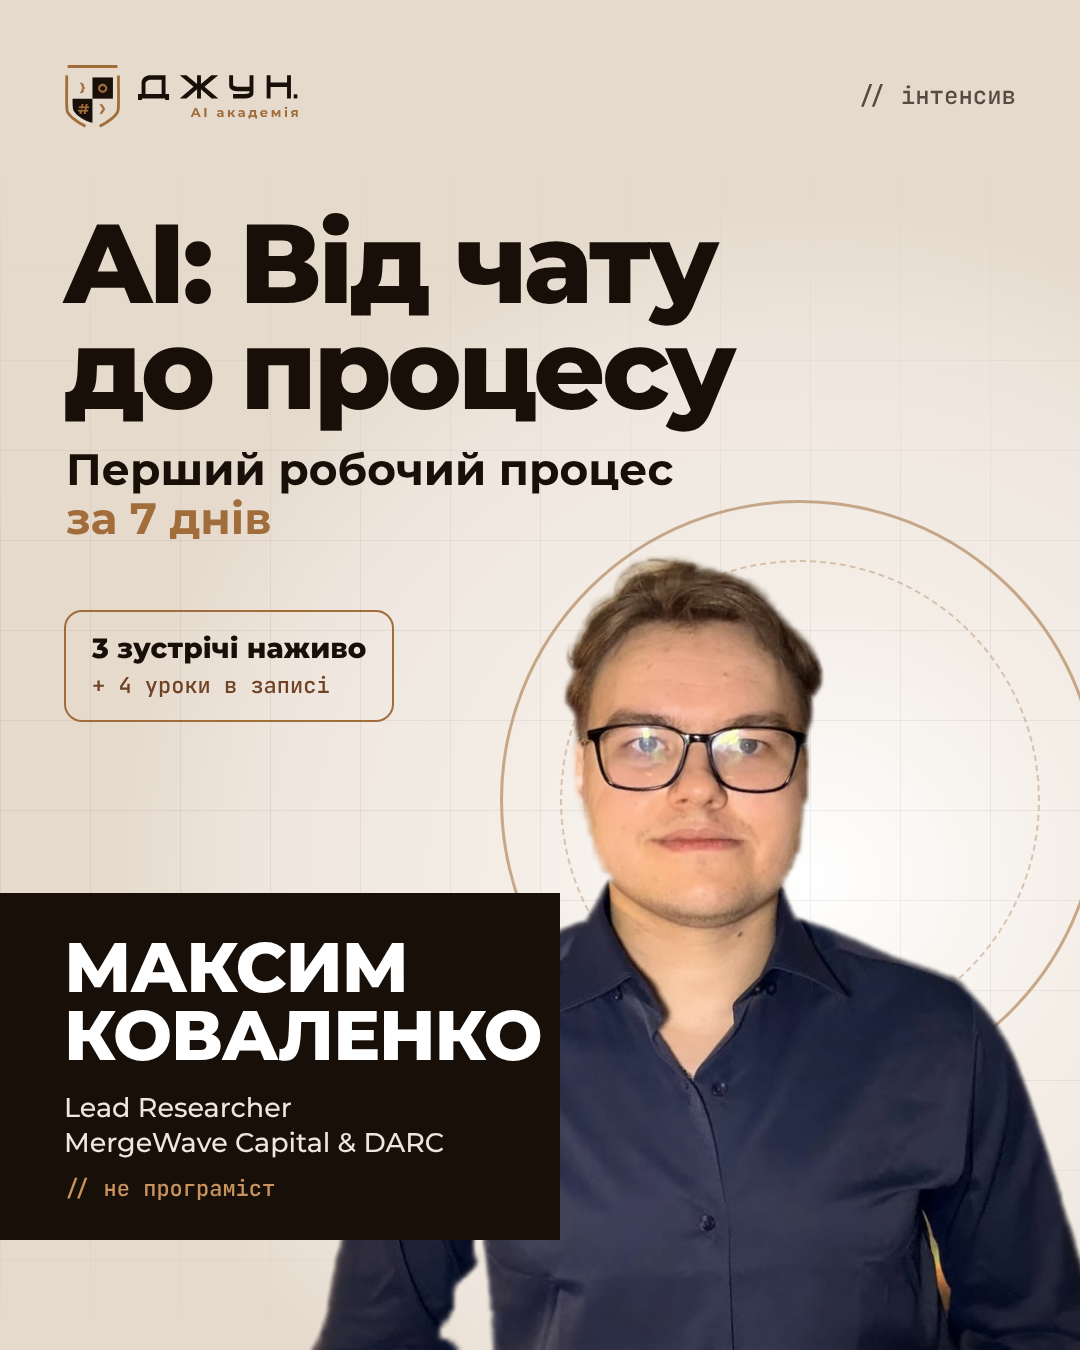
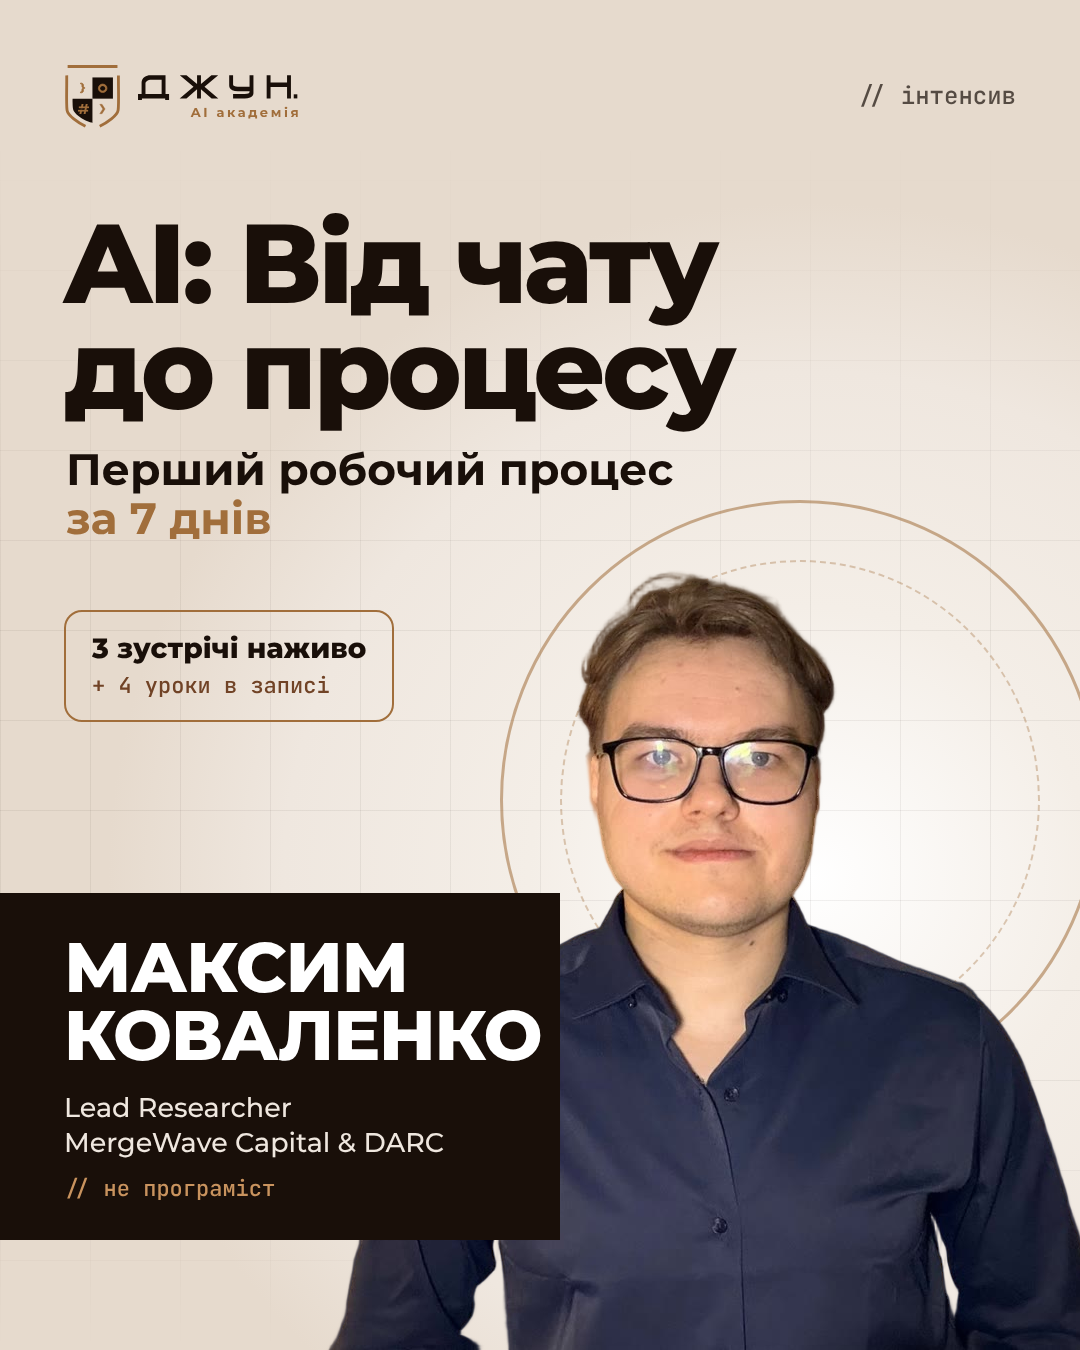
Speaker poster: cleaner cutout
Claude-Session: https://claude.ai/code/session_01F8vpXYV6V72iEGbNVpHMN7

diff --git a/2026-10-27_maksym/speaker/poster.html b/2026-10-27_maksym/speaker/poster.html
@@ -10,7 +10,7 @@
 h1{position:absolute;left:64px;top:210px;font-weight:800;font-size:112px;line-height:.95;letter-spacing:-.035em;color:#190F09}
 .sub{position:absolute;left:66px;top:445px;font-weight:700;font-size:44px;line-height:1.12;color:#190F09}
 .sub em{font-style:normal;color:#A16E3B}
-.person{position:absolute;right:-40px;bottom:0;height:800px}
+.person{position:absolute;right:-30px;bottom:0;height:780px}
 .pill{position:absolute;left:64px;top:610px;padding:20px 26px;border-radius:18px;border:2px solid #A16E3B;font:800 28px/1.2 M;color:#190F09}
 .pill span{display:block;font:500 22px/1.3 J;color:#714326;margin-top:6px}
 .name{position:absolute;left:0;bottom:110px;width:560px;padding:40px 40px 40px 64px;background:#190F09}
